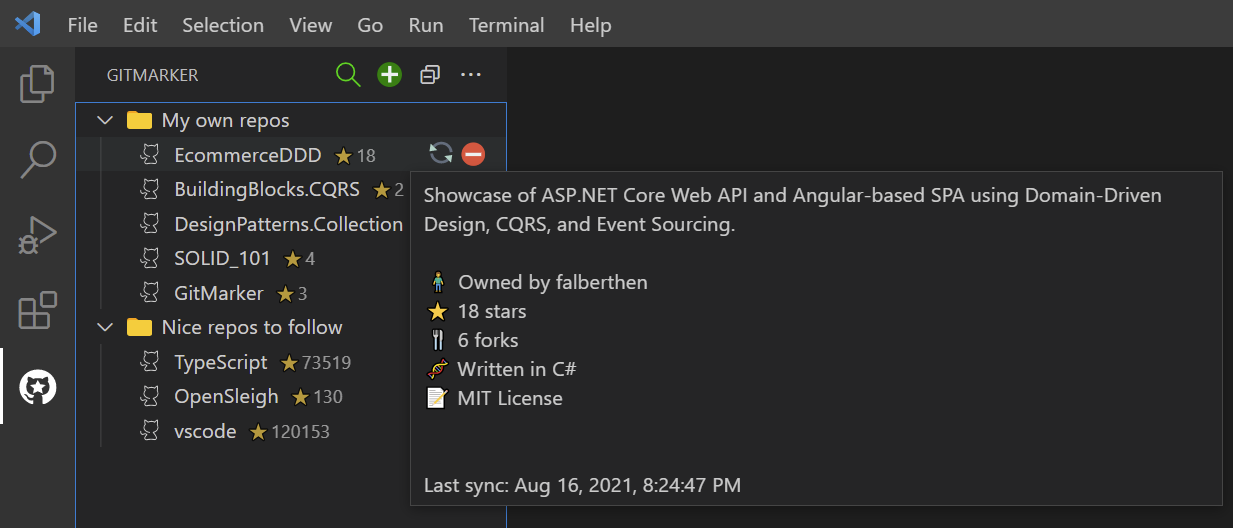
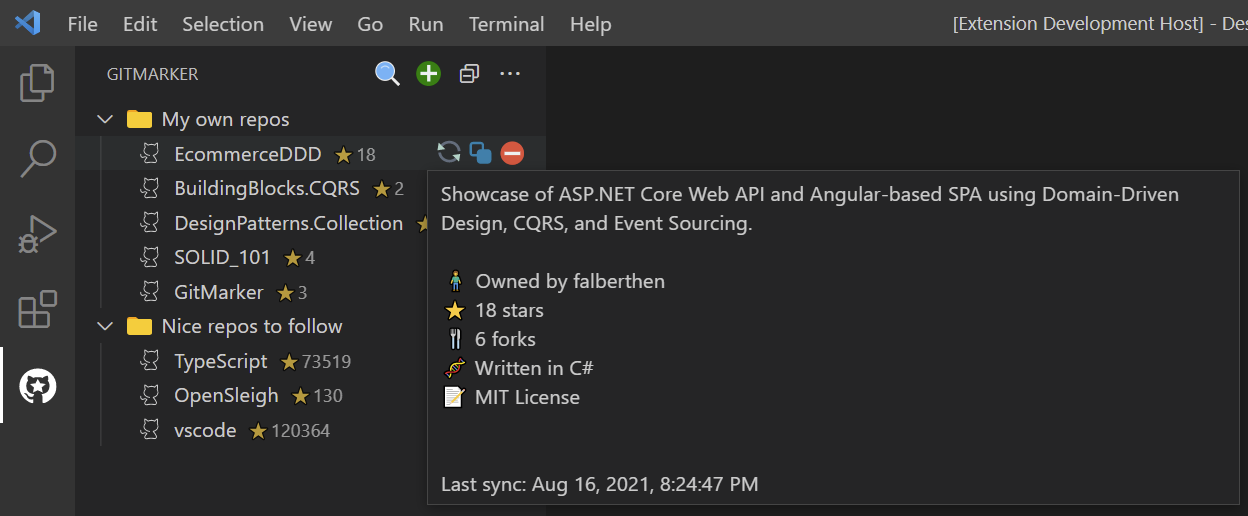
Added git clone feature

diff --git a/src/extension.ts b/src/extension.ts
@@ -10,6 +10,7 @@ import { syncRepository } from './commands/syncRepository';
 import { howToSetupToken } from './commands/howToSetupToken';
 import { exportBookmarks } from './commands/exportBookmarks';
 import { importBookmarks } from './commands/importBookmarks';
+import { cloneRepository } from './commands/cloneRepository';
 import { TreeDataItem } from './models/tree-data-item';
 import SecretManager from './services/secret-manager';
 import BookmarkManager from './services/bookmark-manager';
@@ -17,7 +18,7 @@ import RepositorySyncManager from './services/repository-sync-manager';
 import { 
 	CREATE_CATEGORY, REMOVE_CATEGORY, RENAME_CATEGORY, SEARCH_REPOSITORIES, 
 	SET_ACCESS_TOKEN, REMOVE_REPOSITORY, CLEAR_ALL, SYNC_REPOSITORY, 
-	SET_ACCESS_TOKEN_HELP, EXPORT_BOOKMARKS, IMPORT_BOOKMARKS
+	SET_ACCESS_TOKEN_HELP, EXPORT_BOOKMARKS, IMPORT_BOOKMARKS, CLONE_REPOSITORY
 } from './consts/commands';
 import { TreeViewManager } from './services/tree-view-manager';
 
@@ -35,12 +36,16 @@ export async function activate(context: vscode.ExtensionContext) {
 		await removeCategory(category);
 	}));
 
-	context.subscriptions.push(vscode.commands.registerCommand(SEARCH_REPOSITORIES, async (repository: TreeDataItem) => {
+	context.subscriptions.push(vscode.commands.registerCommand(SEARCH_REPOSITORIES, async () => {
 		await searchRepositories();
 	}));
 
 	context.subscriptions.push(vscode.commands.registerCommand(SYNC_REPOSITORY, async (repository: TreeDataItem) => {
 		await syncRepository(repository);
+	}));
+	
+	context.subscriptions.push(vscode.commands.registerCommand(CLONE_REPOSITORY, async (repository: TreeDataItem) => {
+		await cloneRepository(repository);
 	}));
 
 	context.subscriptions.push(vscode.commands.registerCommand(REMOVE_REPOSITORY, async (repository: TreeDataItem) => {

diff --git a/src/commands/cloneRepository.ts b/src/commands/cloneRepository.ts
@@ -1,0 +1,58 @@
+import * as vscode from 'vscode';
+import { DEFAULT_PATH_CFG, GITMARKER_CONFIG, 
+      TERMINAL_KEY, USE_DEFAULT_PATH_CFG } from '../consts/application';
+import { DO_YOU_WANT_CLONE_MSG, GIT_CLONE_EXECUTED,
+    NO_MSG, YES_MSG } from '../consts/messages';
+import { TreeDataItem } from "../models/tree-data-item";
+import { openFolderOptions } from '../utils/dialog-options';
+
+export async function cloneRepository(dataItem: TreeDataItem){
+   vscode.window
+		.showInformationMessage(
+			`${DO_YOU_WANT_CLONE_MSG}${dataItem.label}?`,
+			...[YES_MSG, NO_MSG]
+		)
+		.then((answer) => {
+			if (answer === 'Yes') {
+				pickClonePath(dataItem);
+			}
+		});   
+}
+
+function pickClonePath(dataItem: TreeDataItem) {
+   const config = vscode.workspace
+      .getConfiguration(GITMARKER_CONFIG);
+
+   const useDefaultPath = config
+      .get(USE_DEFAULT_PATH_CFG);
+   
+   const defaultClonePath = config
+      .get(DEFAULT_PATH_CFG) as string;   
+
+   if(useDefaultPath && defaultClonePath) {
+      executeTerminalCmd(dataItem, defaultClonePath);
+      return;
+   }
+   
+   vscode.window.showOpenDialog(openFolderOptions)
+      .then(fileUri => {
+         if(fileUri) {
+            executeTerminalCmd(dataItem, fileUri[0].fsPath);
+         }
+   });
+}
+
+function executeTerminalCmd(dataItem: TreeDataItem, path: string) {
+   var terminal = vscode.window.terminals
+      .find(e=>e.name === TERMINAL_KEY);
+
+   if(!terminal) {
+      terminal = vscode.window
+         .createTerminal(TERMINAL_KEY);
+   }
+
+   terminal.sendText(`cls`);
+   terminal.show();
+   terminal.sendText(`git clone ${dataItem?.cloneUrl} ${path}\\${dataItem.label}`);
+   vscode.window.showInformationMessage(`${GIT_CLONE_EXECUTED}${dataItem.label}`);
+}

diff --git a/src/services/tree-view-manager.ts b/src/services/tree-view-manager.ts
@@ -1,5 +1,5 @@
 import * as vscode from 'vscode';
-import { CONTEXT_CATEGORY_COUNT, GIT_MARKER_VIEW, SET_CONTEXT } from '../consts/application';
+import { CONTEXT_CATEGORY_COUNT, GITMARKER_VIEW, SET_CONTEXT } from '../consts/application';
 import { SYNC_REPOSITORY } from '../consts/commands';
 import { TOOLTIP_FORKS, TOOLTIP_FORKS_LBL, TOOLTIP_LANGUAGE, 
 			TOOLTIP_LASTSYNC, TOOLTIP_LICENSE, TOOLTIP_OWNED_BY, 
@@ -26,7 +26,7 @@ export class TreeViewManager {
 
 	constructor() {	
 		this.dataProvider = new TreeDataItemProvider();
-		this.treeView = vscode.window.createTreeView(GIT_MARKER_VIEW, {
+		this.treeView = vscode.window.createTreeView(GITMARKER_VIEW, {
 			showCollapseAll: true,
 			treeDataProvider: this.dataProvider,
 			canSelectMany: true
@@ -74,7 +74,8 @@ export class TreeViewManager {
 			repositoryDataItem = new TreeDataItem(false, `${repository.name}`);
 			repositoryDataItem.customId = repository.id;
 			repositoryDataItem.parentId = categoryId;
-			repositoryDataItem.url = repository.url;					
+			repositoryDataItem.url = repository.url;
+			repositoryDataItem.cloneUrl = `${repository.url}.git`;
 			repositoryDataItem.tooltip = this.buildToolTip(repository);
 			repositoryDataItem.description = repository.stargazersCount > 0 
 				? `⭐${repository.stargazersCount}` 

diff --git a/src/services/repository-sync-manager.ts b/src/services/repository-sync-manager.ts
@@ -1,8 +1,10 @@
+import * as vscode from 'vscode';
 import { TreeDataItem } from '../models/tree-data-item';
 import { getTimeDiff } from '../utils/datetime-helper';
 import { GitHubApiClient } from './github-api-client';
 import SecretManager from './secret-manager';
 import BookmarkManager from './bookmark-manager';
+import { REPO_SYNC_SUCCESS } from '../consts/messages';
 
 export default class RepositorySyncManager {
 	
@@ -41,6 +43,8 @@ export default class RepositorySyncManager {
 					.then(updatedRepository => {
 						BookmarkManager.instance
 							.updateRepository(updatedRepository);
+						
+						vscode.window.showInformationMessage(`${dataItem.label} ${REPO_SYNC_SUCCESS}`);
 					});
 			}
 		}

diff --git a/src/consts/messages.ts b/src/consts/messages.ts
@@ -15,6 +15,9 @@ export const SET_TOKEN_NOW_MSG = 'Setup it now';
 export const ARE_YOU_SURE_IMPORT_MSG = 'Your current bookmarks will be replaced with the importing file. Are you sure?';
 export const ERROR_IMPORTING_MSG = 'An error ocurred when importing the file. The content format is invalid.';
 export const ERROR_EXPORTING_MSG = 'An error ocurred when exporting your bookmarks.';
+export const REPO_SYNC_SUCCESS = 'was syncronized with success!';
+export const GIT_CLONE_EXECUTED = 'Clone command executed for ';
+export const DO_YOU_WANT_CLONE_MSG = 'Do you want to clone ';
 export const YES_MSG = 'Yes';
 export const NO_MSG = 'No';
 

diff --git a/src/consts/application.ts b/src/consts/application.ts
@@ -10,8 +10,16 @@ export const VIEW_ITEM_CATEGORY = 'categoryItem';
 export const VIEW_ITEM_REPOSITORY = 'repositoryItem';
 
 // Views
-export const GIT_MARKER_VIEW = 'gitmarkerView';
+export const GITMARKER_VIEW = 'gitmarkerView';
 
 // Context
 export const SET_CONTEXT = 'setContext';
 export const CONTEXT_CATEGORY_COUNT = 'categoryCount';
+
+// Terminal
+export const TERMINAL_KEY = 'GitMarker';
+
+// Config
+export const GITMARKER_CONFIG = 'gitmarker';
+export const USE_DEFAULT_PATH_CFG = 'useDefaultClonePath';
+export const DEFAULT_PATH_CFG = 'defaultClonePath';

diff --git a/src/consts/commands.ts b/src/consts/commands.ts
@@ -4,6 +4,7 @@ export const RENAME_CATEGORY = 'gitmarker.renameCategory';
 export const SEARCH_REPOSITORIES = 'gitmarker.searchRepositories';
 export const SYNC_REPOSITORY = 'gitmarker.syncRepository';
 export const REMOVE_REPOSITORY = 'gitmarker.removeRepository';
+export const CLONE_REPOSITORY = 'gitmarker.cloneRepository';
 export const SET_ACCESS_TOKEN = 'gitmarker.setAccessToken';
 export const EXPORT_BOOKMARKS = 'gitmarker.exportBookmarks';
 export const IMPORT_BOOKMARKS = 'gitmarker.importBookmarks';

diff --git a/src/commands/searchRepositories.ts b/src/commands/searchRepositories.ts
@@ -60,7 +60,7 @@ export async function searchRepositories() {
 						}
 						else {
 							return BookmarkManager.instance
-									.bookmarkRepositories(allCategories[0].id, selectedRepos);                                          
+								.bookmarkRepositories(allCategories[0].id, selectedRepos);                                          
 						}
 					}
 				});        

diff --git a/src/models/github-repository.ts b/src/models/github-repository.ts
@@ -15,6 +15,7 @@ export class GithubRepository {
 	language!: string;
 	license!: any;
 	lastSyncDate!: DateTime;
+	cloneUrl: string;
 
 	@MinLength(7)
 	url: Uri;
@@ -30,5 +31,6 @@ export class GithubRepository {
 		this.id = id;
 		this.name = name;
 		this.url = url;
+		this.cloneUrl = `${this.url}.git`;
 	}
 }

diff --git a/src/utils/dialog-options.ts b/src/utils/dialog-options.ts
@@ -15,3 +15,10 @@ export const saveDialogOptions: vscode.SaveDialogOptions = {
 		'Json files': ['json'],
 	}
 };
+
+export const openFolderOptions: vscode.OpenDialogOptions = {
+	canSelectMany: false,
+	openLabel: 'Select Path',
+	canSelectFiles: false,
+	canSelectFolders: true
+};

diff --git a/src/models/tree-data-item.ts b/src/models/tree-data-item.ts
@@ -9,6 +9,7 @@ export class TreeDataItem extends vscode.TreeItem {
 	parentId!: string;
 	customId!: string;
 	url!: Uri;
+	cloneUrl!: string;
 
 	constructor(isRoot: boolean, label: string, children?: TreeDataItem[], command?: Command) {
 		super(

diff --git a/README.md b/README.md
@@ -29,6 +29,15 @@ In addition to offering quick access to your bookmarked repositories, it highlig
 
 <img src="https://raw.githubusercontent.com/falberthen/gitmarker/master/images/menu-options.png"> 
 
+- Clone a repository with a few clicks!
+
+<img src="https://raw.githubusercontent.com/falberthen/gitmarker/master/images/clone.png"> 
+
+- Set up a default clone path and use it if you want, or GitMarker will open a dialog where you can choose the path for cloning a repository
+
+<img src="https://raw.githubusercontent.com/falberthen/gitmarker/master/images/settings.png"> 
+<img src="https://raw.githubusercontent.com/falberthen/gitmarker/master/images/clone-into-folder.png"> 
+
 ## Requirements
 
 Since GitMarker uses the [GitHub API](https://docs.github.com/en/rest/guides/getting-started-with-the-rest-api) for searching repositories, you need to provide a [personal access token](https://docs.github.com/en/github/authenticating-to-github/keeping-your-account-and-data-secure/creating-a-personal-access-token). It will be required when using the search feature for the first time, but also can be set up anytime. Once it's all set, GitMarker stores it in the <b>secret storage</b> to ensure your token will not be read or misused by other extensions.
